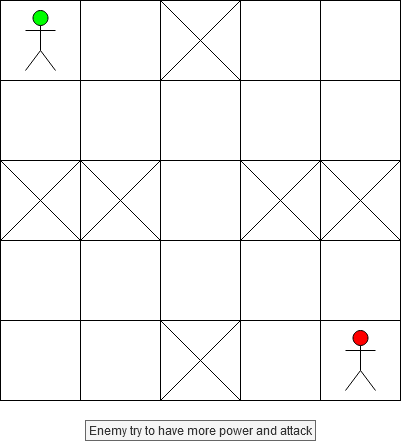
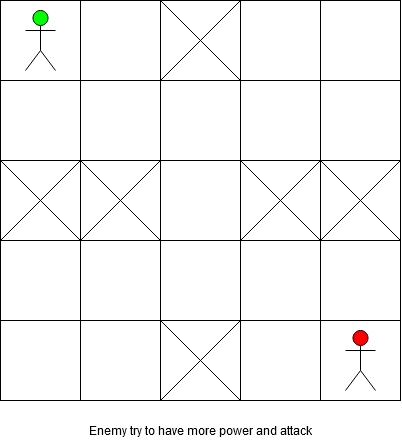
[QUALITY] Add a white background to some images

Changed region(s): [[0.209, 0.9433, 0.806, 1.0]]

diff --git a/Documentations/GDD.md b/Documentations/GDD.md
@@ -52,7 +52,7 @@
 | V1.1 | 24/03/2021 | Add a rule for in game actions  | Change game rules for make it more easy for the player															| Matthias de Toffoli |
 | V1.2 | 04/08/2021 | Add a missing point			  | Add a missing skills for the character																			| Matthias de Toffoli |
 | V1.3 | 07/10/2021 | Add level designs				  | Add the 15 level's diagrams and the epilogue's one and update the LD Bricks										| Matthias de Toffoli |
-| V1.4 | 07/22/2021 | Add background to images text	  | Add a white background to the images dark texts																	| Matthias de Toffoli |
+| V1.4 | 07/22/2021 | Add background to some images	  | Add a white background to some images																			| Matthias de Toffoli |
 
 ## Product Description
 * Pitch : It's a 2D mobile mind break game, you will conquer a square that will influence the adjacent squares for conquer them too. An opponent will do same. Every square on your side will give you power, if you have more power than your opponent you will can defeat him.

diff --git a/Documentations/TDD.md b/Documentations/TDD.md
@@ -87,7 +87,7 @@
 | V1.3 | 11/28/2020 | Change some game rules 									  | Change some game rules for make it more easy for the player														 | Matthias de Toffoli |
 | V1.4 | 04/08/2021 | Add a missing point										  | Add a missing skills for the character																			 | Matthias de Toffoli |
 | V1.5 | 04/14/2021 | Update diagrams											  | Update some diagrams and add Core folder's diagram																 | Matthias de Toffoli |
-| V1.6 | 07/22/2021 | Add background to images text	  							  | Add a white background to the images dark texts															   		 | Matthias de Toffoli |
+| V1.6 | 07/22/2021 | Add background to some images	  							  | Add a white background to some images																	   		 | Matthias de Toffoli |
 
 ## About it
 ### Why this ?
